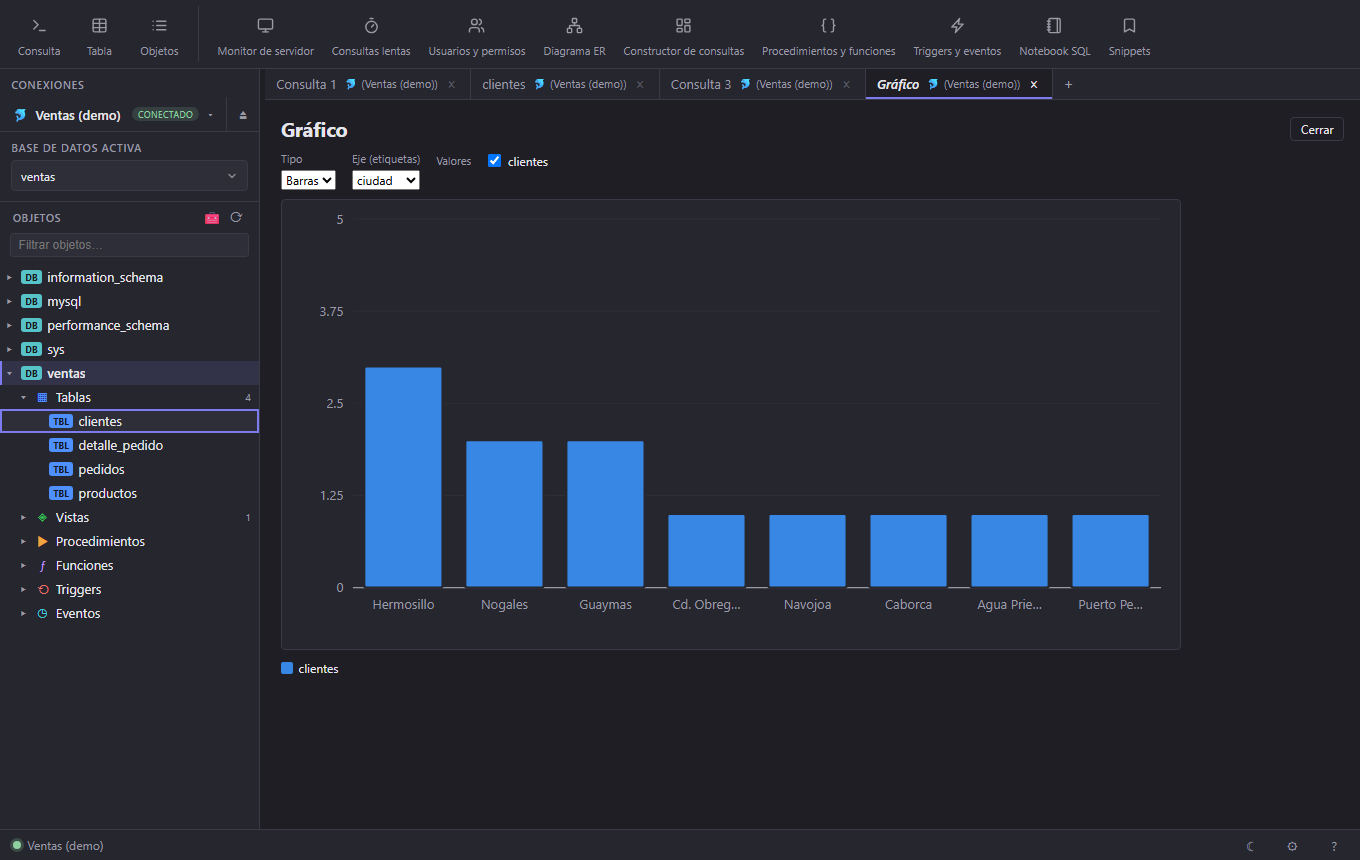
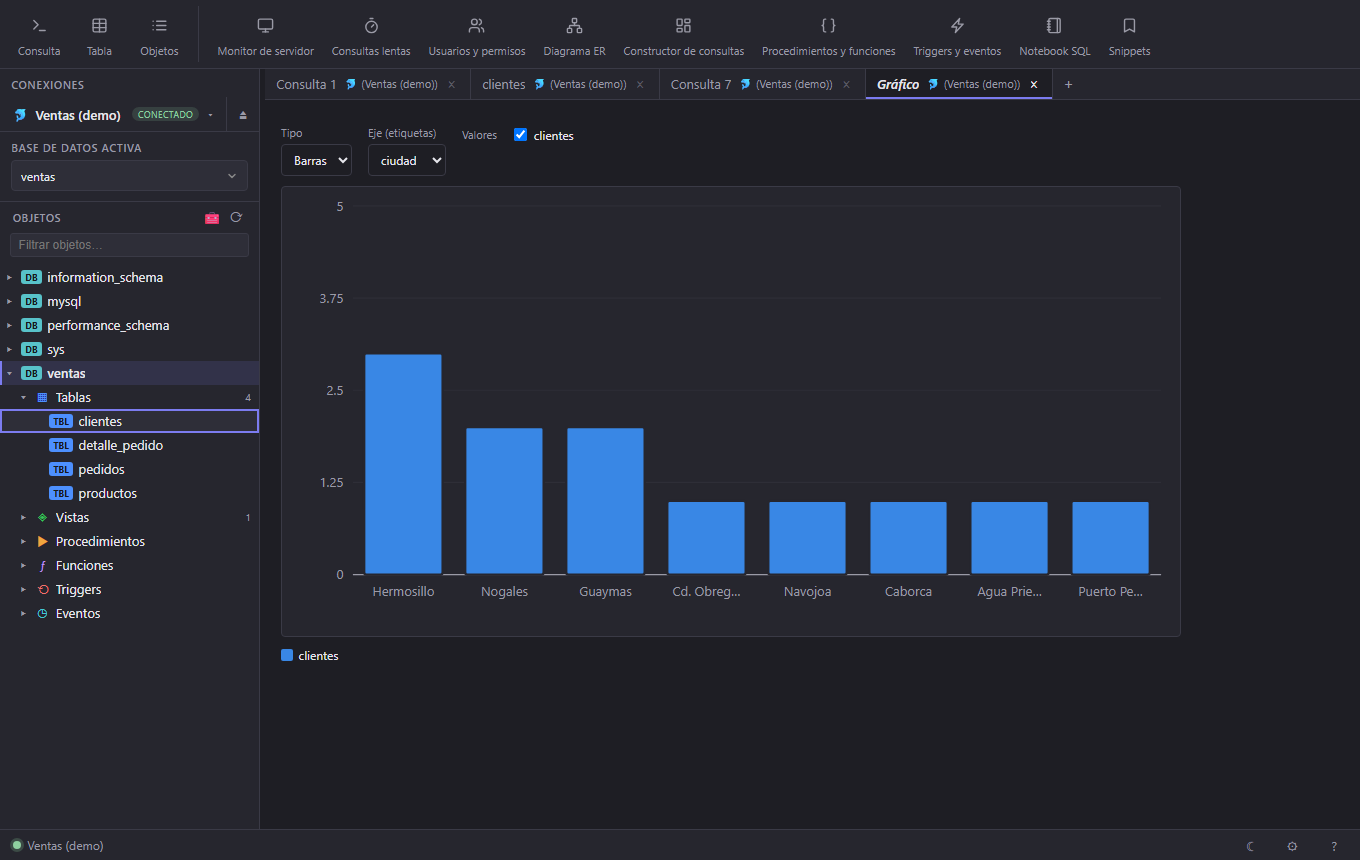
chore(release): v0.13.0, the tools finally look like one app
Minor: four changes that all came from the same report — every option in the
ribbon felt like a feature built by a different person.

- Every tool panel wears the same bar. Twelve of them hand-rolled a header, and
  seven repeated the title and the close the TAB already carries; those are
  gone, and refresh became one icon button the shell draws (#372, #373).
- One field vocabulary inside the panels: fifteen selects and inputs carried no
  class at all and rendered with the operating system's look, which is why the
  query builder read as a foreign dialog (#374).
- The server monitor and slow queries run on the result grid instead of their
  own table, so they arrive with type chips, per-column filters and keyboard
  selection; their per-row buttons became bar actions over the selected row
  (#375).
- The routine and trigger explorers gained a search box, and the trigger one
  searches by table as well as by name (#376, #377).

Screenshots regenerated: the monitor is a different panel now. The media spec
closed each tool with a "Cerrar" button that no longer exists — it presses
Escape, which is what closes a panel.

diff --git a/frontend/e2e/media/screenshots.spec.ts b/frontend/e2e/media/screenshots.spec.ts
@@ -138,7 +138,9 @@ test("capture the published screenshots", async ({ page }) => {
         .click();
       await expect(page.getByText(ready).first()).toBeVisible({ timeout: 30_000 });
       await shot(file);
-      await page.getByRole("button", { name: "Cerrar", exact: true }).click();
+      // Escape, not a "Cerrar" button: the panels stopped printing one when the
+      // tab's own ✕ became the only close (#372).
+      await page.keyboard.press("Escape");
     }
 
     // 8. The chart view, which needs a result to chart: run a query, then chart it.
